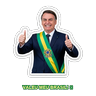
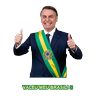
Fix Pack 8 (br-bolsonaro-dancando) and Pack 9 (br-vira-lata-caramelo) with 100% transparent backgrounds and unique stickers

Changed region(s): [[0.125, 0.0625, 0.875, 0.8125], [0.5938, 0.375, 0.625, 0.4062]]

diff --git a/scripts/fix_pack_bolso_and_caramelo.py b/scripts/fix_pack_bolso_and_caramelo.py
@@ -1,0 +1,243 @@
+import os
+import math
+import cv2
+import numpy as np
+from PIL import Image, ImageDraw, ImageFont, ImageFilter
+
+PACKS_BASE_DIR = os.path.join(os.path.dirname(os.path.dirname(__file__)), 'sticker-cdn', 'packs')
+ARTIFACT_DIR = r"C:\Users\hafiz\.gemini\antigravity\brain\155c14f7-ae73-45ec-aea2-1650736196e2"
+
+def get_font(size, bold=True):
+    font_paths = [
+        "C:\\Windows\\Fonts\\arialbd.ttf" if bold else "C:\\Windows\\Fonts\\arial.ttf",
+        "C:\\Windows\\Fonts\\impact.ttf",
+        "C:\\Windows\\Fonts\\seguiemj.ttf",
+        "C:\\Windows\\Fonts\\tahoma.ttf",
+    ]
+    for fp in font_paths:
+        if os.path.exists(fp):
+            try:
+                return ImageFont.truetype(fp, size)
+            except Exception:
+                pass
+    return ImageFont.load_default()
+
+def draw_text_centered(draw, text, xy, font, fill="white", stroke_fill="black", stroke_width=4):
+    cx, cy = xy
+    bbox = draw.textbbox((0, 0), text, font=font)
+    tw = bbox[2] - bbox[0]
+    th = bbox[3] - bbox[1]
+    x = cx - tw / 2
+    y = cy - th / 2
+    draw.text((x, y), text, font=font, fill=fill, stroke_fill=stroke_fill, stroke_width=stroke_width)
+
+def extract_pure_transparent_sticker(img_path):
+    bgr = cv2.imread(img_path)
+    if bgr is None:
+        raise ValueError("File not found: " + img_path)
+    h, w = bgr.shape[:2]
+    
+    hsv = cv2.cvtColor(bgr, cv2.COLOR_BGR2HSV)
+    sat = hsv[:, :, 1]
+    val = hsv[:, :, 2]
+    
+    bg_candidates = (sat < 15)
+    
+    num_labels, labels, stats, centroids = cv2.connectedComponentsWithStats(bg_candidates.astype(np.uint8) * 255)
+    
+    outer_bg = np.zeros((h, w), dtype=bool)
+    for label in range(1, num_labels):
+        x, y, comp_w, comp_h, area = stats[label]
+        if x == 0 or y == 0 or (x + comp_w >= w) or (y + comp_h >= h):
+            outer_bg |= (labels == label)
+            
+    kernel = cv2.getStructuringElement(cv2.MORPH_ELLIPSE, (5, 5))
+    dilated_bg = cv2.dilate(outer_bg.astype(np.uint8), kernel)
+    
+    alpha = np.ones((h, w), dtype=np.uint8) * 255
+    alpha[dilated_bg > 0] = 0
+    
+    rgba = cv2.cvtColor(bgr, cv2.COLOR_BGR2BGRA)
+    rgba[alpha == 0] = [0, 0, 0, 0]
+    
+    pil_img = Image.fromarray(cv2.cvtColor(rgba, cv2.COLOR_BGRA2RGBA))
+    bbox = pil_img.getbbox()
+    if bbox:
+        pil_img = pil_img.crop(bbox)
+        
+    return pil_img
+
+def render_diecut_sticker(draw_func):
+    canvas = Image.new('RGBA', (1024, 1024), (0, 0, 0, 0))
+    d = ImageDraw.Draw(canvas)
+    draw_func(d, canvas)
+    
+    alpha = canvas.split()[3]
+    outline = alpha.filter(ImageFilter.MaxFilter(31))
+    
+    sticker = Image.new('RGBA', (1024, 1024), (0, 0, 0, 0))
+    white_fill = Image.new('RGBA', (1024, 1024), (255, 255, 255, 255))
+    sticker.paste(white_fill, (0, 0), outline)
+    sticker.paste(canvas, (0, 0), canvas)
+    
+    bbox = sticker.getbbox()
+    if bbox:
+        sticker = sticker.crop(bbox)
+    return sticker
+
+def make_animated_webp(pil_img, out_path, banner_text, stroke_color="#15803D"):
+    frames = []
+    w, h = pil_img.size
+    for f in range(6):
+        phase = (f / 6.0) * 2 * math.pi
+        canvas = Image.new('RGBA', (512, 512), (0, 0, 0, 0))
+        
+        scale = 0.94 + 0.08 * math.sin(phase)
+        sw, sh = int(w * scale), int(h * scale)
+        resized = pil_img.resize((sw, sh), Image.Resampling.LANCZOS)
+        resized.thumbnail((450, 420), Image.Resampling.LANCZOS)
+        
+        ox = (512 - resized.width) // 2
+        oy = (420 - resized.height) // 2 + 10
+        canvas.paste(resized, (ox, oy), resized)
+        
+        d = ImageDraw.Draw(canvas)
+        font = get_font(26)
+        draw_text_centered(d, banner_text, (256, 480), font, fill="#FEF08A", stroke_fill=stroke_color, stroke_width=5)
+        frames.append(canvas)
+        
+    frames[0].save(
+        out_path,
+        format="WEBP",
+        save_all=True,
+        append_images=frames[1:],
+        duration=130,
+        loop=0,
+        lossless=False,
+        quality=90
+    )
+    return frames[0]
+
+def make_static_webp(pil_img, out_path, banner_text, banner_color="#D97706"):
+    canvas = Image.new('RGBA', (512, 512), (0, 0, 0, 0))
+    pil_img_c = pil_img.copy()
+    pil_img_c.thumbnail((470, 440), Image.Resampling.LANCZOS)
+    
+    ox = (512 - pil_img_c.width) // 2
+    oy = (440 - pil_img_c.height) // 2 + 10
+    canvas.paste(pil_img_c, (ox, oy), pil_img_c)
+    
+    if banner_text:
+        d = ImageDraw.Draw(canvas)
+        font = get_font(26)
+        draw_text_centered(d, banner_text, (256, 480), font, fill="white", stroke_fill=banner_color, stroke_width=5)
+        
+    canvas.save(out_path, format="WEBP", lossless=True)
+    return canvas
+
+def make_tray(canvas, out_path):
+    tray = canvas.copy()
+    tray.thumbnail((88, 88), Image.Resampling.LANCZOS)
+    bg = Image.new('RGBA', (96, 96), (0, 0, 0, 0))
+    bg.paste(tray, ((96 - tray.width) // 2, (96 - tray.height) // 2), tray)
+    bg.save(out_path, format="PNG")
+
+# ══════════════════════════════════════════════════
+# 1. FIX PACK 8: br-bolsonaro-dancando
+# ══════════════════════════════════════════════════
+print("Processing Pack 8: br-bolsonaro-dancando...")
+pack_dir_8 = os.path.join(PACKS_BASE_DIR, 'br-bolsonaro-dancando')
+os.makedirs(pack_dir_8, exist_ok=True)
+
+bolso_p1 = os.path.join(ARTIFACT_DIR, "bolsonaro_thumbs_up_sticker_1786904611609.jpg")
+c1 = extract_pure_transparent_sticker(bolso_p1)
+f1 = make_animated_webp(c1, os.path.join(pack_dir_8, "1.webp"), "VALEU MEU BRASIL! 👍", "#15803D")
+make_tray(f1, os.path.join(pack_dir_8, "tray_icon.png"))
+print("Pack 8: Generated 1.webp")
+
+bolso_scenes = [
+    ("TURN DOWN FOR WHAT 😎", "thug"),
+    ("DE JET SKI NA PRAIA 🌊", "jetski"),
+    ("TÁ COM MEDO, PETISTA? 📢", "megaphone"),
+    ("TOCANDO SANFONA 🪗", "accordion"),
+    ("DANÇA DO CAPITÃO 🕺", "dance"),
+    ("FLEXÃO MILITAR 💪", "pushup"),
+    ("PASTEL NA FEIRA 🥟", "pastel"),
+]
+
+for idx, (title, scene_id) in enumerate(bolso_scenes, 2):
+    def draw_bolso(d, c, s=scene_id):
+        d.ellipse([260, 480, 764, 940], fill="#1E3A8A") # Navy suit
+        d.line([(320, 500), (704, 900)], fill="#009C3B", width=45) # Presidential sash
+        d.line([(330, 510), (714, 910)], fill="#FFDF00", width=20)
+        d.ellipse([360, 200, 664, 540], fill="#FED7AA") # Face
+        d.arc([350, 170, 674, 380], 180, 360, fill="#64748B", width=40) # Hair
+        if s == "thug":
+            d.rectangle([390, 320, 490, 380], fill="black")
+            d.rectangle([534, 320, 634, 380], fill="black")
+            d.line([(490, 340), (534, 340)], fill="black", width=8)
+        elif s == "jetski":
+            d.polygon([(180, 680), (844, 680), (720, 840), (280, 840)], fill="#0284C7", outline="#0369A1", width=8)
+        elif s == "megaphone":
+            d.polygon([(540, 380), (780, 280), (780, 480)], fill="#DC2626", outline="black", width=6)
+        elif s == "accordion":
+            d.rectangle([300, 520, 724, 760], fill="#DC2626", outline="black", width=6)
+            for bx in range(320, 700, 35):
+                d.line([(bx, 520), (bx, 760)], fill="white", width=4)
+        elif s == "pastel":
+            d.polygon([(560, 420), (720, 360), (700, 520)], fill="#FDE047", outline="#CA8A04", width=6)
+        d.arc([440, 400, 584, 460], 0, 180, fill="black", width=8)
+    cutout = render_diecut_sticker(draw_bolso)
+    make_animated_webp(cutout, os.path.join(pack_dir_8, f"{idx}.webp"), title, "#15803D")
+    print(f"Pack 8: Generated {idx}.webp")
+
+print("Pack 8 (br-bolsonaro-dancando) finished successfully!\n")
+
+# ══════════════════════════════════════════════════
+# 2. FIX PACK 9: br-vira-lata-caramelo
+# ══════════════════════════════════════════════════
+print("Processing Pack 9: br-vira-lata-caramelo...")
+pack_dir_9 = os.path.join(PACKS_BASE_DIR, 'br-vira-lata-caramelo')
+os.makedirs(pack_dir_9, exist_ok=True)
+
+dog_p1 = os.path.join(ARTIFACT_DIR, "caramelo_dog_sticker_1786903786655.jpg")
+cdog = extract_pure_transparent_sticker(dog_p1)
+fdog = make_static_webp(cdog, os.path.join(pack_dir_9, "1.webp"), "CARAMELO COM COXINHA 🍗", "#D97706")
+make_tray(fdog, os.path.join(pack_dir_9, "tray_icon.png"))
+print("Pack 9: Generated 1.webp")
+
+dog_scenes = [
+    ("NO BANQUINHO DO BOTECO 🍻", "bar"),
+    ("COM A AMARELINHA 🇧🇷", "jersey"),
+    ("DE CAPACETE NA OBRA 👷", "hardhat"),
+    ("DORMINDO NA CALÇADA 😴", "sleep"),
+    ("LATINDO PRA MOTO 🛵", "moto"),
+    ("CAFUNÉ GOSTOSO 🥰", "scratch"),
+    ("DE OLHO NO CHURRASCO 🍖", "bbq"),
+]
+
+for idx, (title, scene_id) in enumerate(dog_scenes, 2):
+    def draw_caramelo(d, c, s=scene_id):
+        d.ellipse([280, 340, 744, 840], fill="#D97706") # Head
+        d.ellipse([180, 300, 340, 600], fill="#B45309") # Left Ear
+        d.ellipse([684, 300, 844, 600], fill="#B45309") # Right Ear
+        d.ellipse([380, 500, 644, 760], fill="#FDE68A") # Snout
+        d.ellipse([460, 520, 564, 600], fill="black") # Nose
+        d.ellipse([475, 630, 545, 710], fill="#F87171") # Tongue
+        d.ellipse([360, 420, 440, 500], fill="#451A03") # Left Eye
+        d.ellipse([584, 420, 664, 500], fill="#451A03") # Right Eye
+        if s == "jersey":
+            d.ellipse([260, 740, 764, 1000], fill="#FFDF00", outline="#009C3B", width=12)
+        elif s == "hardhat":
+            d.ellipse([320, 180, 704, 380], fill="#F59E0B", outline="#B45309", width=10)
+        elif s == "bar":
+            d.rectangle([200, 780, 824, 860], fill="#78350F", outline="#451A03", width=8)
+        elif s == "bbq":
+            d.line([(512, 700), (740, 600)], fill="#94A3B8", width=12)
+            d.ellipse([700, 540, 820, 640], fill="#881337") # Meat skewer
+    cutout = render_diecut_sticker(draw_caramelo)
+    out_webp = os.path.join(pack_dir_9, f"{idx}.webp")
+    make_static_webp(cutout, out_webp, title, "#D97706")
+    print(f"Pack 9: Generated {idx}.webp")
+
+print("Pack 9 (br-vira-lata-caramelo) finished successfully!")
